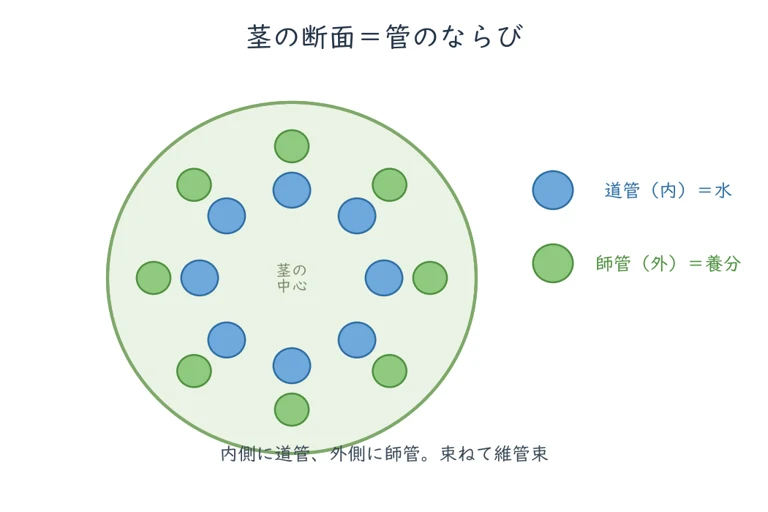
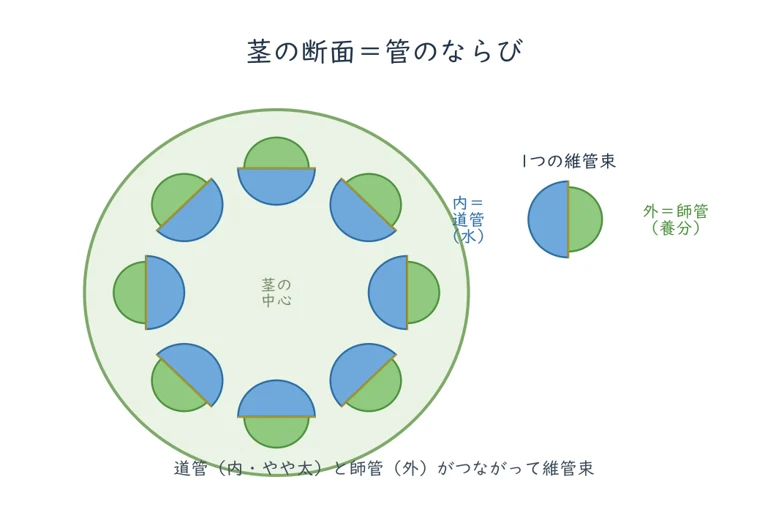
検収シート公開: check/figs_chem_3 = 図版検収③ 化学14/16/20/21+生物08 (16枚) 修正版

diff --git a/check/index.html b/check/index.html
@@ -10,7 +10,7 @@
 </style></head><body>
 <h1>📋 検収シート置き場</h1>
 <ul>
-<li><a href="figs_chem_3/">図版検収③ 化学14/16/20/21+生物08 (16枚)</a> <span class="d">(2026-07-14)</span></li>
+<li><a href="figs_chem_3/">図版検収③ 化学14/16/20/21+生物08 (16枚) 修正版</a> <span class="d">(2026-07-14)</span></li>
 <li><a href="chem_batch7/">化学バッチ7 タップ検収（金属/白い粉/気体）</a> <span class="d">(2026-07-13)</span></li>
 </ul>
 <p class="note">検収が終わったシートは順次撤去されます。</p>
